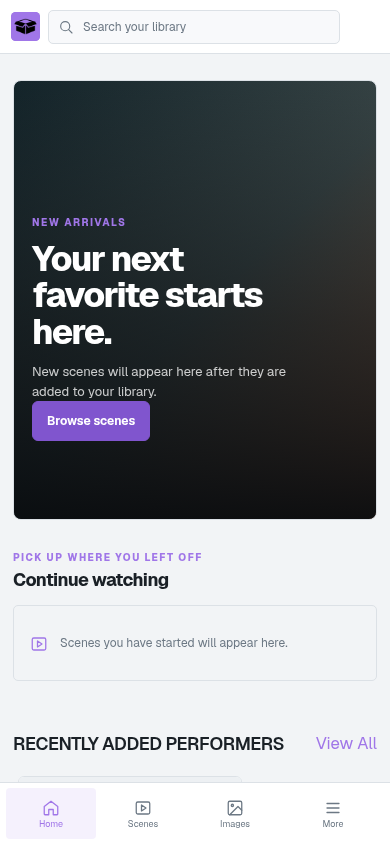
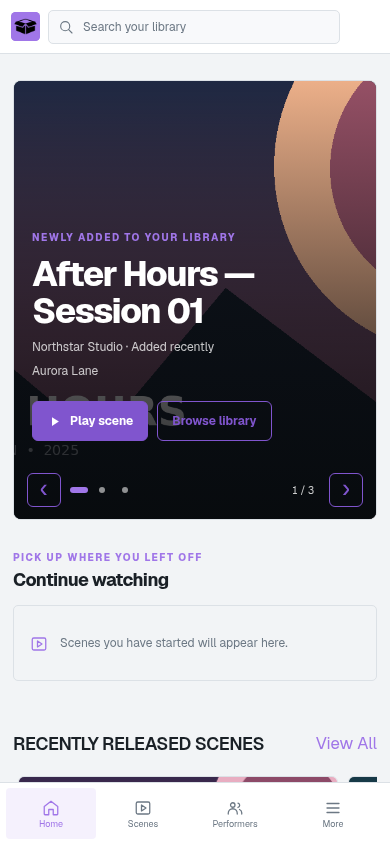
docs(rebirth): refresh screenshots for 1.2.6

diff --git a/plugins/rebirth/README.md b/plugins/rebirth/README.md
@@ -26,45 +26,81 @@ Copy or symlink this directory into Stash's configured `plugins/` directory, rel
 
 ## Screenshots
 
-These screenshots were captured from Rebirth 1.1.7 running on Stash 0.32.0. The test library contains one fictional performer and no scenes, so the home page shows its empty new-arrivals state and the scene library is empty. The collapsed native filter is hidden when detail pages for performers, studios, groups, or tags open and remains available from its filter button.
+These screenshots were captured from Rebirth 1.2.6 running on Stash 0.32.0. The isolated fixture uses a fictional performer and studio with generated artwork for three demo scenes. The plugin launcher screenshots show Rebirth's live flyout populated with representative plugin shortcuts.
 
-### Home in light mode
+### Home
 
-![Rebirth 1.1.7 home page in light mode on Stash 0.32.0](screenshots/home-light.png)
+Light mode, desktop:
 
-![Rebirth 1.1.7 home page in light mode at a 390-pixel mobile width](screenshots/home-light-mobile.png)
+![Rebirth 1.2.6 home page in light mode on Stash 0.32.0](screenshots/home-light.png)
 
-### Scene library in light mode
+Light mode, 390-pixel mobile width:
 
-![Rebirth 1.1.7 scene library in light mode on Stash 0.32.0](screenshots/scene-library-light.png)
+![Rebirth 1.2.6 home page in light mode on mobile](screenshots/home-light-mobile.png)
 
-![Rebirth 1.1.7 scene library in light mode at a 390-pixel mobile width](screenshots/scene-library-light-mobile.png)
+Dark mode, desktop and mobile:
 
-### Performer detail in dark mode
+![Rebirth 1.2.6 home page in dark mode](screenshots/home-dark.png)
 
-![Rebirth 1.1.7 performer detail page on Stash 0.32.0 with the filter closed](screenshots/performer-detail-desktop.png)
+![Rebirth 1.2.6 home page in dark mode on mobile](screenshots/home-dark-mobile.png)
 
-The native filter opens on demand and remains selectable:
+### Scene library
 
-![Rebirth performer detail page with the native filter open](screenshots/performer-detail-desktop-filters.png)
+Light mode, desktop and mobile:
 
-### Performer detail on mobile
+![Rebirth 1.2.6 scene library in light mode](screenshots/scene-library-light.png)
 
-![Rebirth 1.1.7 performer detail page at a 390-pixel mobile width with the filter closed](screenshots/performer-detail-mobile.png)
+![Rebirth 1.2.6 scene library in light mode on mobile](screenshots/scene-library-light-mobile.png)
+
+Dark mode, desktop and mobile:
+
+![Rebirth 1.2.6 scene library in dark mode](screenshots/scene-library-dark.png)
+
+![Rebirth 1.2.6 scene library in dark mode on mobile](screenshots/scene-library-dark-mobile.png)
+
+Poster layout keeps wide scene art fully visible inside the taller card:
+
+![Rebirth 1.2.6 poster scene cards with the full scene artwork visible](screenshots/scene-library-poster-light.png)
+
+![Rebirth 1.2.6 poster scene cards on mobile with the full scene artwork visible](screenshots/scene-library-poster-light-mobile.png)
+
+### Performer detail
+
+The native filter opens on demand and remains selectable. Both light and dark modes show the detail card and grouped rating control; the filter dialog is included in each desktop set.
+
+Dark mode:
+
+![Rebirth 1.2.6 performer detail page in dark mode](screenshots/performer-detail-desktop.png)
+
+![Rebirth 1.2.6 performer detail page with the native filter open in dark mode](screenshots/performer-detail-desktop-filters.png)
+
+![Rebirth 1.2.6 performer detail page in dark mode on mobile](screenshots/performer-detail-mobile.png)
+
+Light mode:
+
+![Rebirth 1.2.6 performer detail page in light mode](screenshots/performer-detail-light-desktop.png)
+
+![Rebirth 1.2.6 performer detail page with the native filter open in light mode](screenshots/performer-detail-light-filters.png)
+
+![Rebirth 1.2.6 performer detail page in light mode on mobile](screenshots/performer-detail-light-mobile.png)
+
+### Plugin launcher flyout
+
+The app-grid button gathers installed plugin shortcuts into one icon-centered flyout. These images show the rendered Rebirth flyout on desktop and mobile in both color modes.
+
+![Rebirth plugin launcher flyout in light mode on desktop](screenshots/plugin-launcher-desktop.png)
+
+![Rebirth plugin launcher flyout in light mode on mobile](screenshots/plugin-launcher-mobile.png)
+
+![Rebirth plugin launcher flyout in dark mode on desktop](screenshots/plugin-launcher-dark-desktop.png)
+
+![Rebirth plugin launcher flyout in dark mode on mobile](screenshots/plugin-launcher-dark-mobile.png)
 
 The mobile **More** flyout presents the remaining destinations as an icon-centered grid. [View the flyout mockup](mockups/navigation-flyout-mobile-neutral-icons-preview.png). The responsive scene and performer pagination is previewed in the [pagination mockup](mockups/pagination-bar.html), and the eight accent colors are compared in the [palette mockup](mockups/accent-palettes.html).
 
-### Plugin launcher preview
-
-Rebirth 1.1.8 replaces separate plugin utility icons with one top-bar app-grid button. Its flyout shows shortcuts for installed plugin pages and includes a link to plugin management. These are design previews; the launcher behavior was checked in a browser fixture rather than captured from a live Stash instance.
-
-![Rebirth plugin launcher flyout on desktop](screenshots/plugin-launcher-desktop-preview.png)
-
-![Rebirth plugin launcher flyout on mobile](screenshots/plugin-launcher-mobile-preview.png)
-
 ## Visual audit
 
-Earlier Rebirth versions were checked in a clean Stash 0.32.0 instance at desktop and mobile widths, including the performer detail page with its filter closed and opened. The 1.2.2 tag directory was checked against Stash 0.32 tag and filter APIs and in desktop/mobile browser fixtures from 320 to 1280 pixels in both light and dark modes. User preference persistence uses Stash 0.32's per-user `configuration.ui` and `configureUI(partial:)` GraphQL fields; it was tested with isolated browser storage and mocked authenticated GraphQL responses. A live Stash server is not running in this workspace. Stash continues to handle library mutations, playback, and server settings through its native routes and APIs.
+Rebirth 1.2.6 was checked in an isolated Stash 0.32.0 instance at desktop and mobile widths in both color modes, including the performer filter dialog and the plugin launcher flyout. The screenshot fixture contains only fictional metadata and generated demo artwork. The 1.2.2 tag directory was checked against Stash 0.32 tag and filter APIs in desktop and mobile browser fixtures from 320 to 1280 pixels. User preference persistence uses Stash 0.32's per-user `configuration.ui` and `configureUI(partial:)` GraphQL fields. Stash continues to handle library mutations, playback, and server settings through its native routes and APIs.
 
 The plugin has no external dependencies or build step. Its JavaScript and manifest can be syntax-checked directly with Node; its styles load from `css/rebirth-1.2.6.css`.
 
